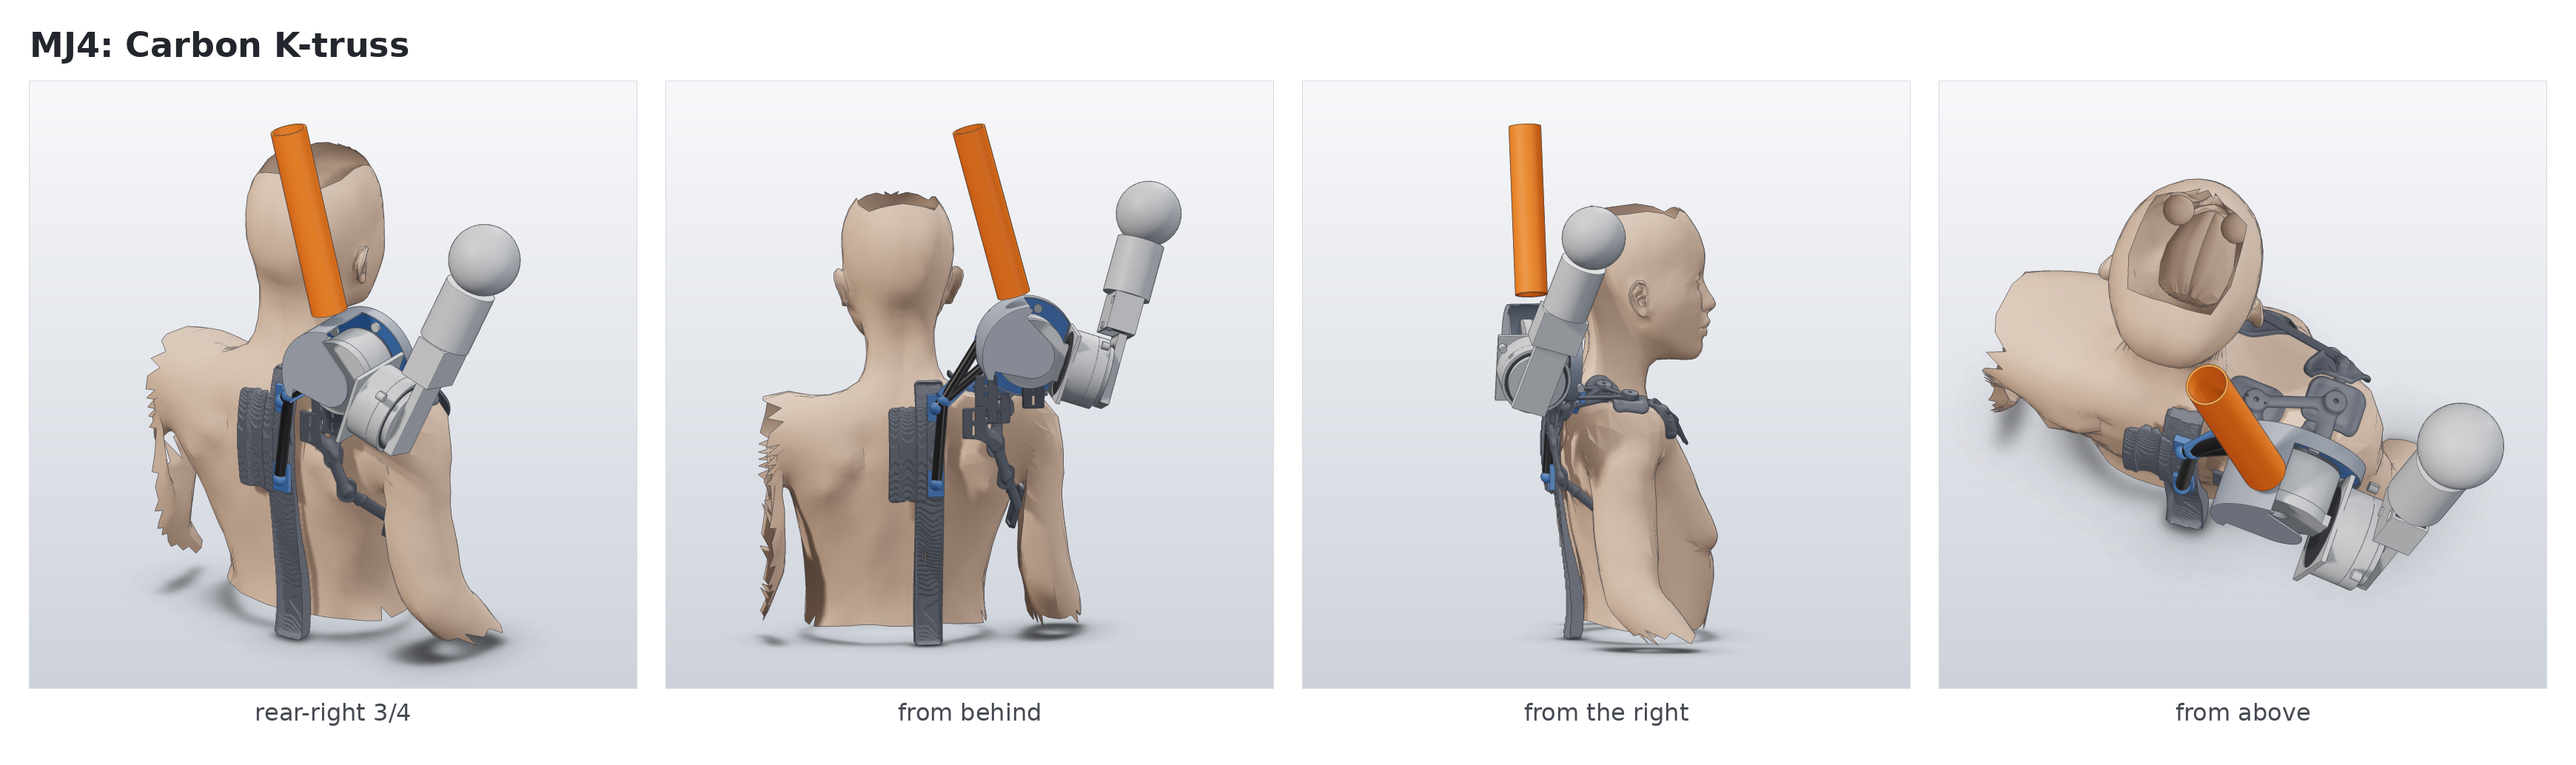
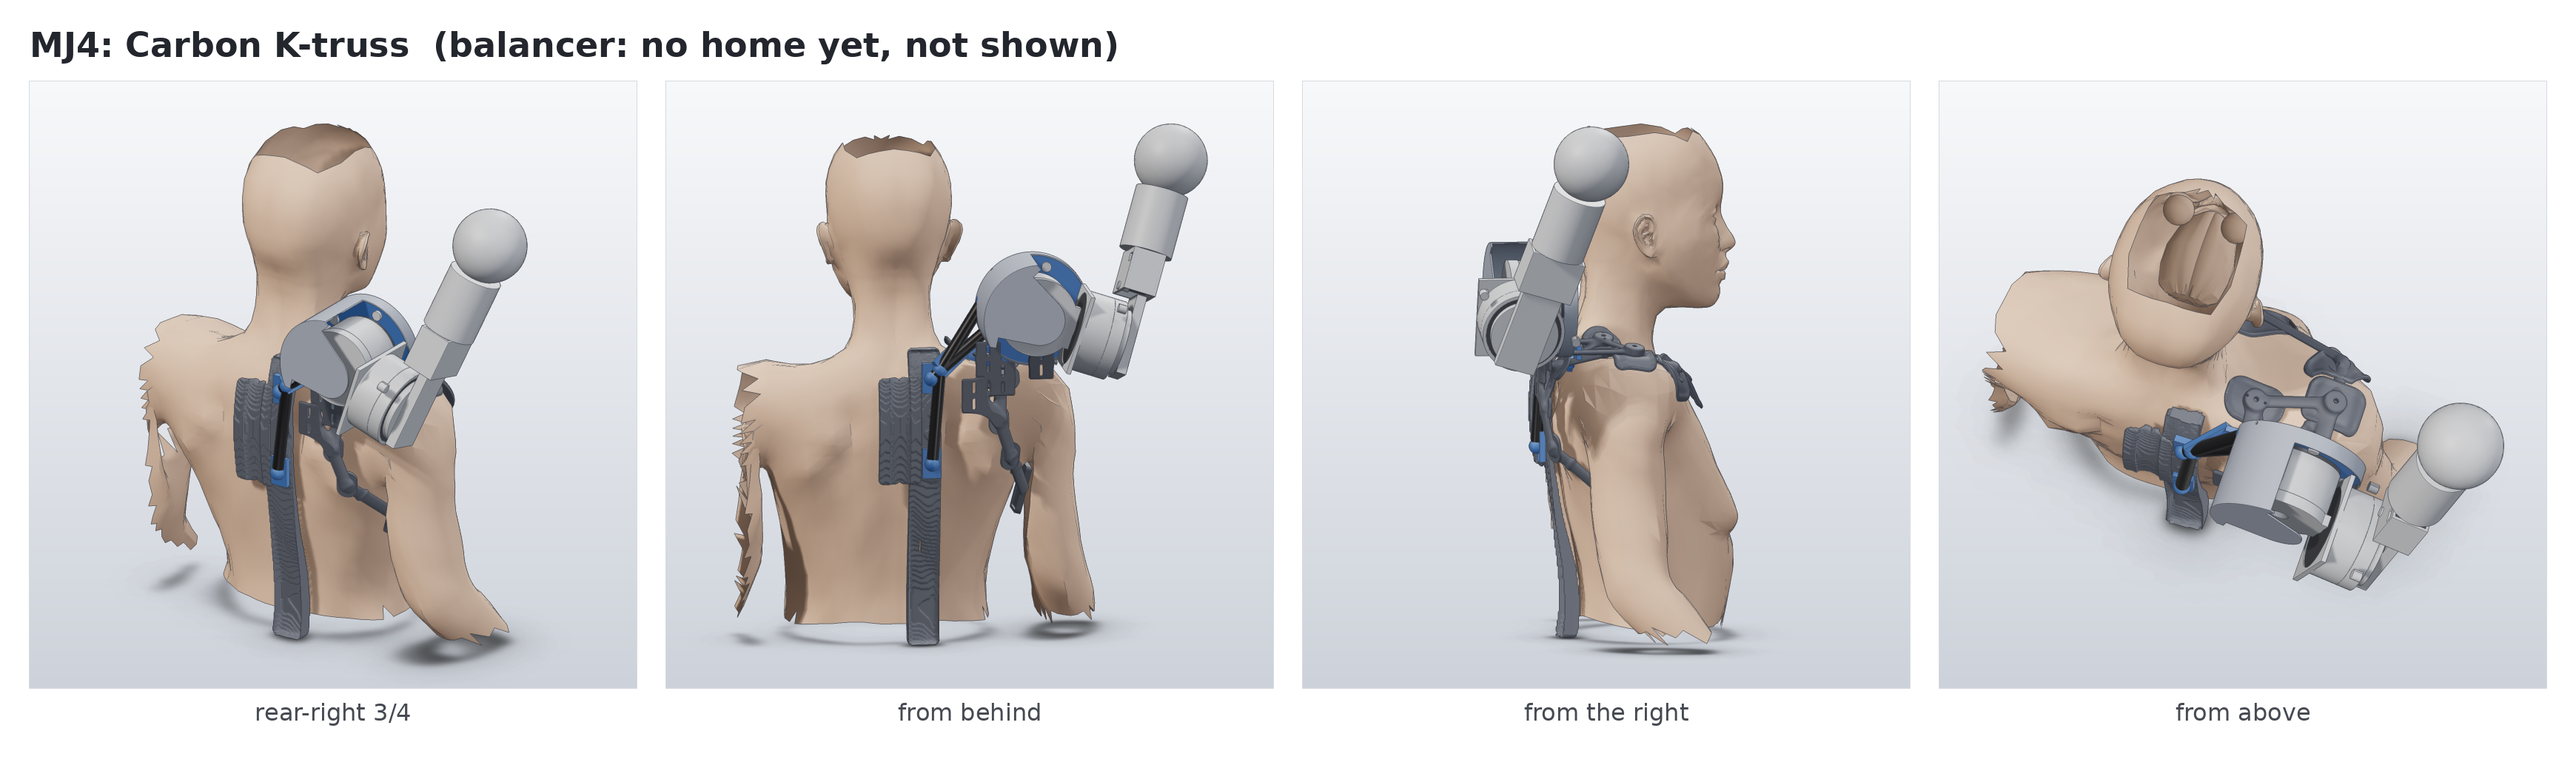
j1r2 mounts: drop placeholder radial balancer tube from renders; mark concepts 'balancer: no home'
Claude-Session: https://claude.ai/code/session_012jhbAFGFXqm9ePr86kshLQ

diff --git a/cad/j1r2/mj_render.py b/cad/j1r2/mj_render.py
@@ -25,9 +25,8 @@ def scene(cid):
     for k, r in met["parts"].items():
         p_ = os.path.join(MD, cid, f"{cid}_{k}_R.stl"); c = cols.get(k, [0.2, 0.34, 0.52]); mat = r["mat"]
         parts.append(dict(stl=p_, color=rgb(c), metal=0.6 if mat in ("AL", "STEEL") else (0.15 if mat == "CF" else 0.05), rough=0.35 if mat in ("AL", "CF") else 0.5))
-    bt = os.path.join(MD, cid, f"{cid}_bal_tube_radial_R.stl")
-    if os.path.exists(bt): parts.append(dict(stl=bt, color=[240, 120, 30], rough=0.5))
-    title = f"{cid}: {met['title']}"
+    # the radial balancer tube (J1 rev 2 unresolved placeholder) is NOT drawn: it is not a design, only the unsolved problem (see metrics balancer.verdict)
+    title = f"{cid}: {met['title']}" + ("  (balancer: no home yet, not shown)" if met["balancer"].get("home", "").startswith("radial") else "")
     sc = dict(out_prefix=os.path.join(OUTD, cid), title=title, width=820, height=820, parts=parts, up=[0, 0, 1], time_budget=int(os.environ.get("TB", 50)), fill=0.86,
               views=[dict(name="rear34", dir=[1.0, 0.70, 0.55], label="rear-right 3/4"), dict(name="rear", dir=[1.0, -0.12, 0.18], label="from behind"),
                      dict(name="side", dir=[0.15, 1.0, 0.10], label="from the right"), dict(name="top", dir=[0.30, 0.10, 1.0], label="from above")])
